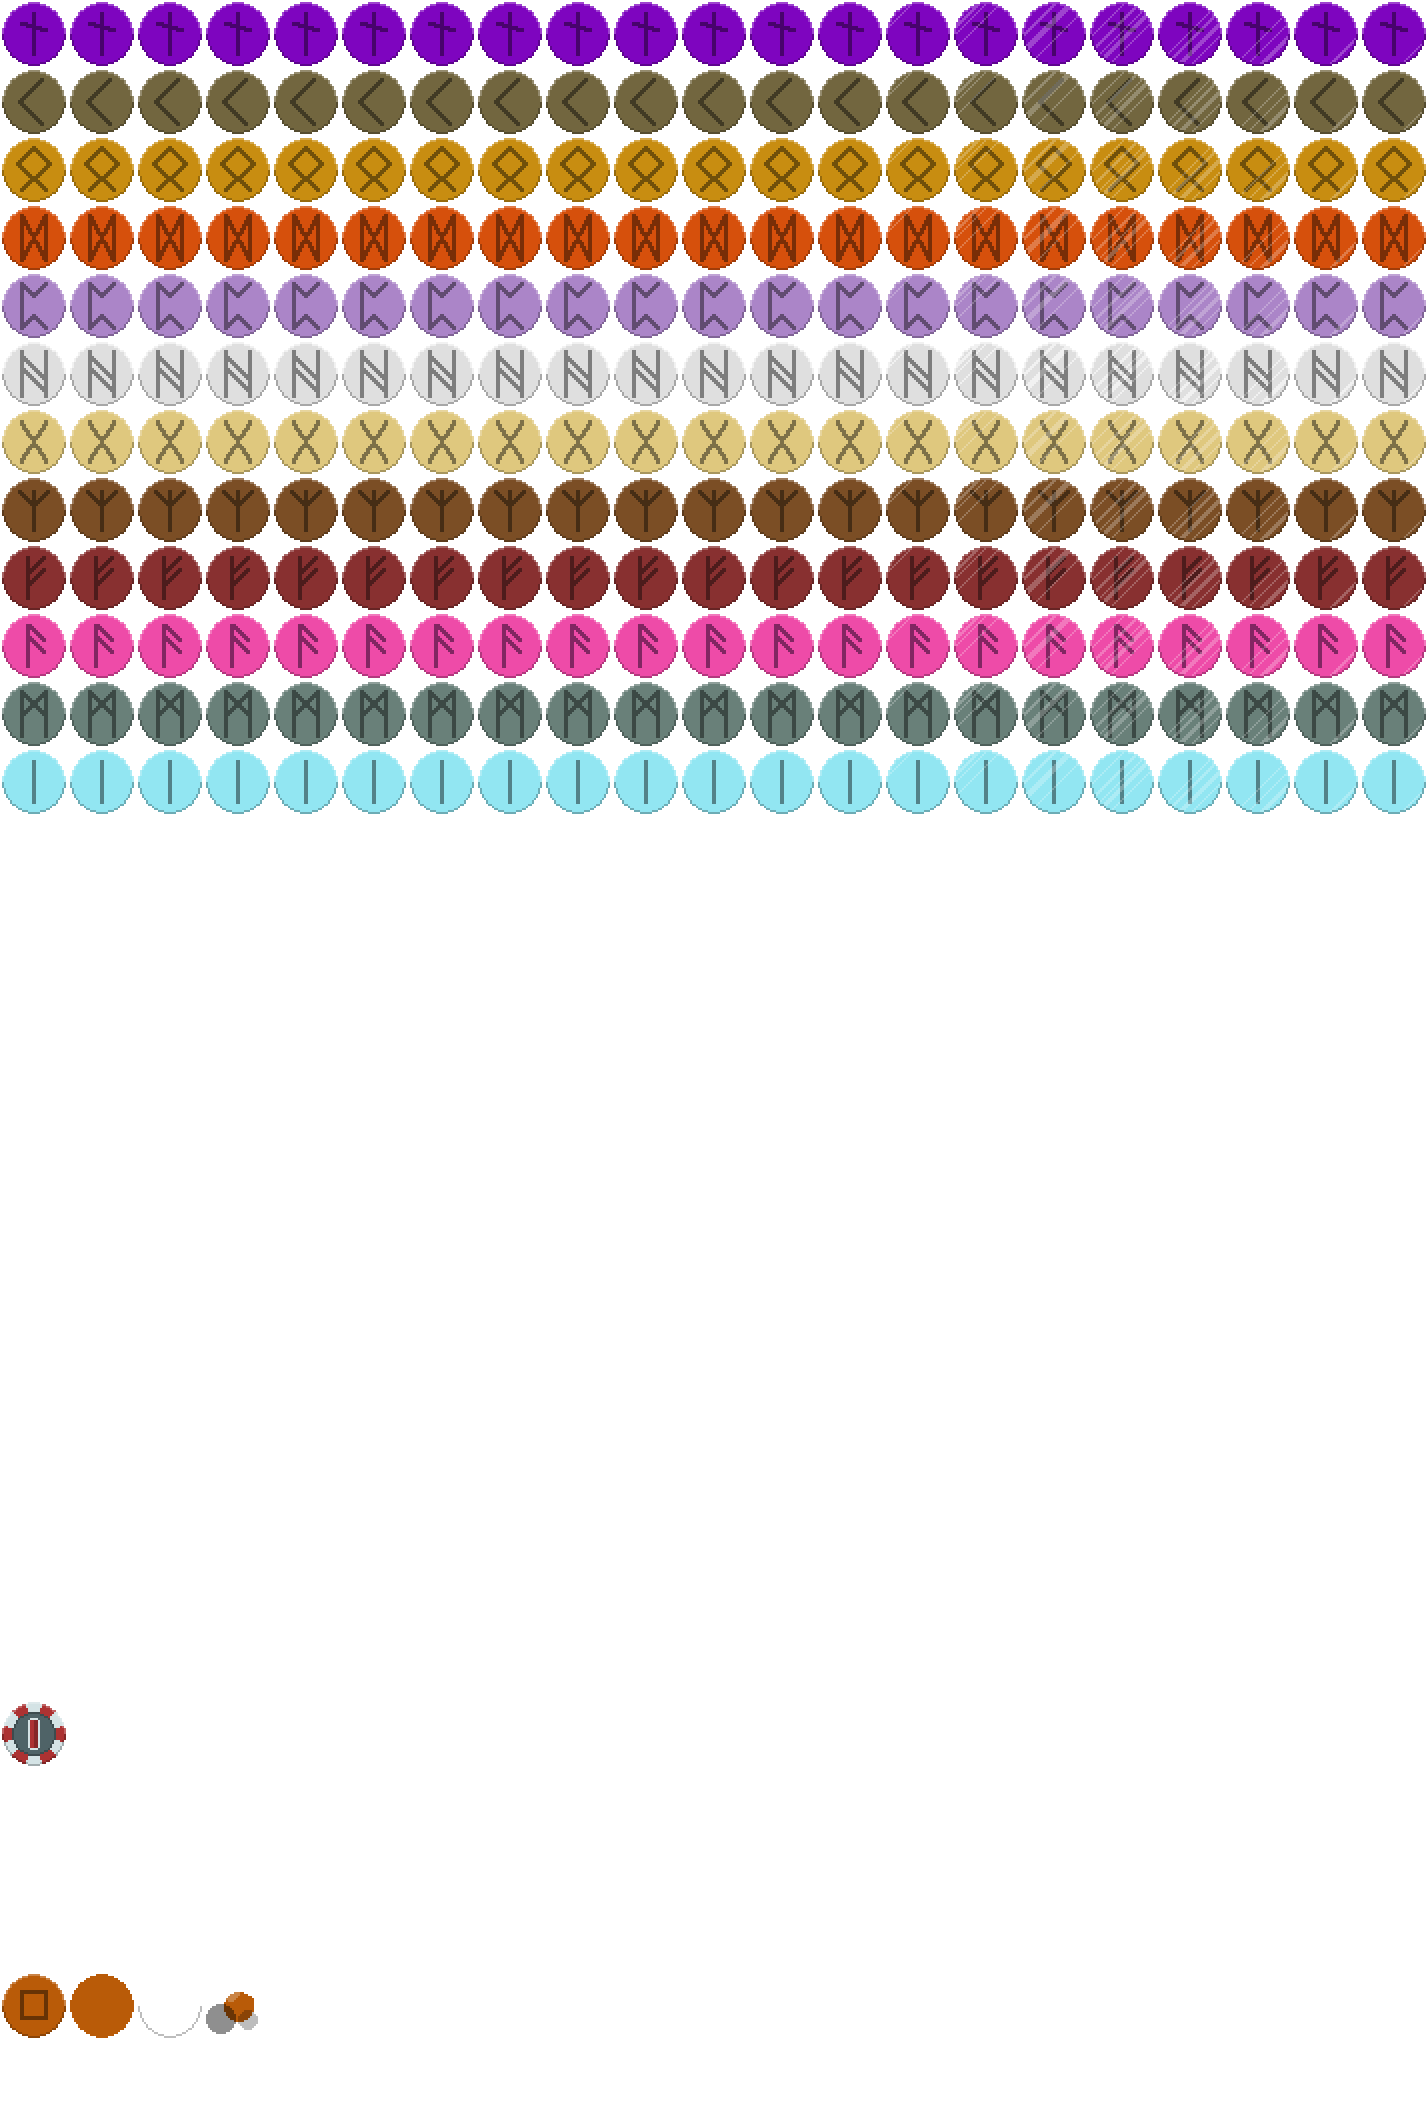
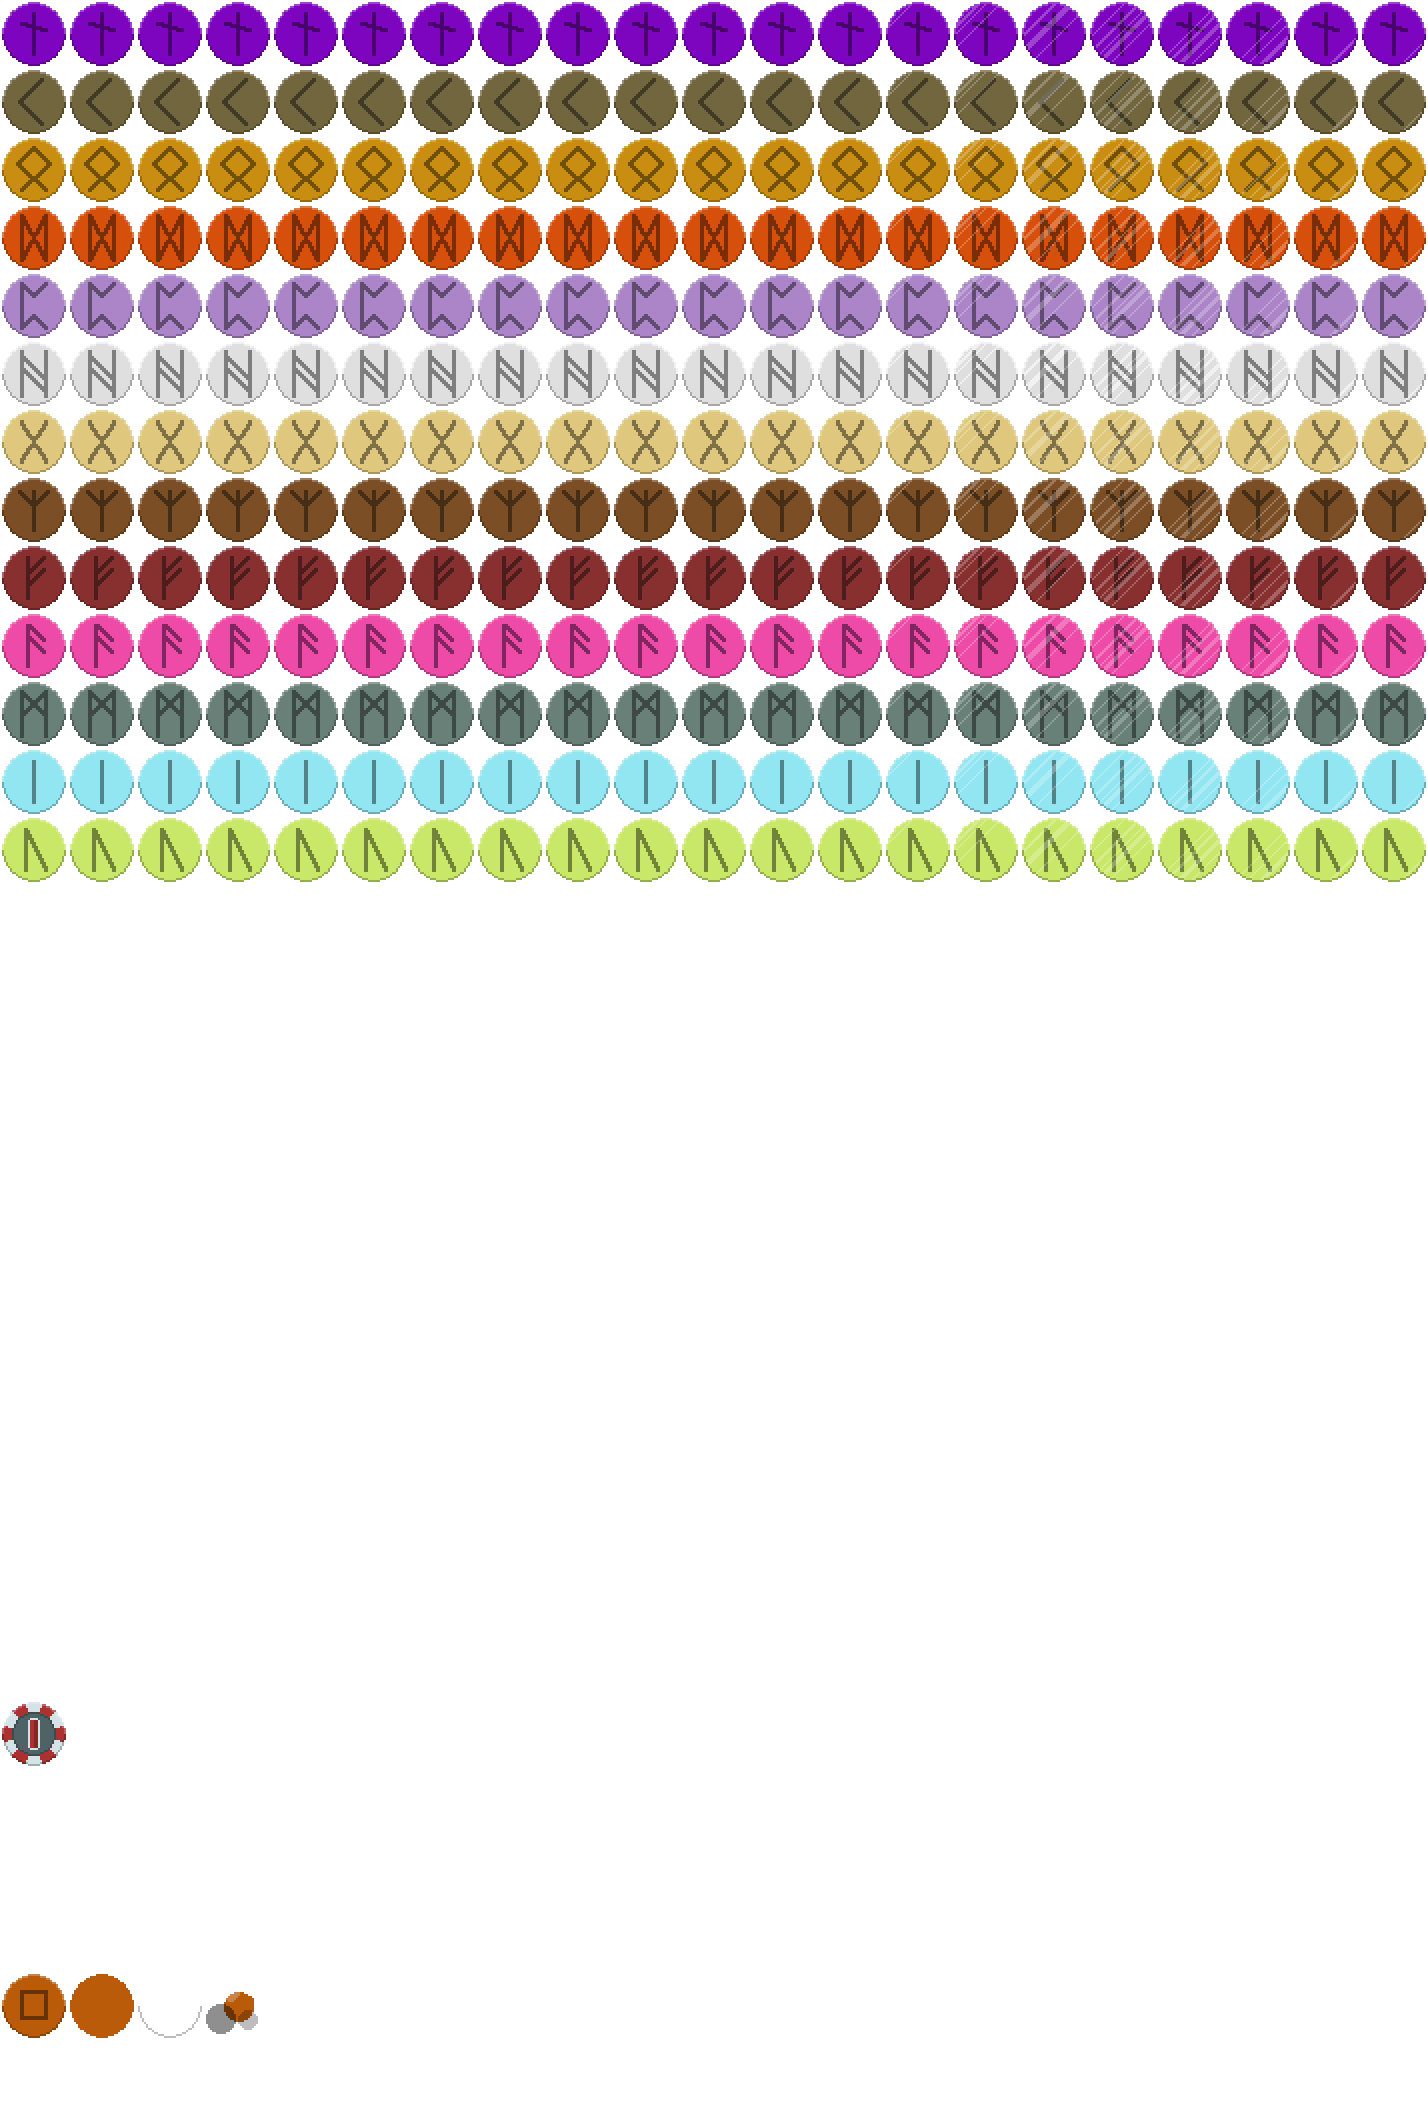
Add Scythe boss blind

Changed region(s): [[0.0, 0.37, 1.0, 0.4317]]

diff --git a/web/addjokers.js b/web/addjokers.js
@@ -1228,6 +1228,14 @@ let blinds = [
     image_url: "img/bl/ice.png",
     rarity: "Boss Blind"
   },
+  {
+    name: "The Scythe",
+    text: [
+      "Played cards are permanently debuffed after scoring"
+    ],
+    image_url: "img/bl/scythe.png",
+    rarity: "Boss Blind"
+  },
   // {
   //   name: "Violet Vessel",
   //   text: [